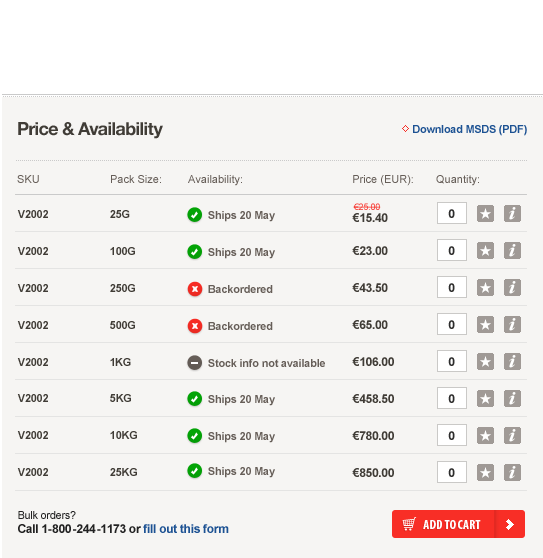
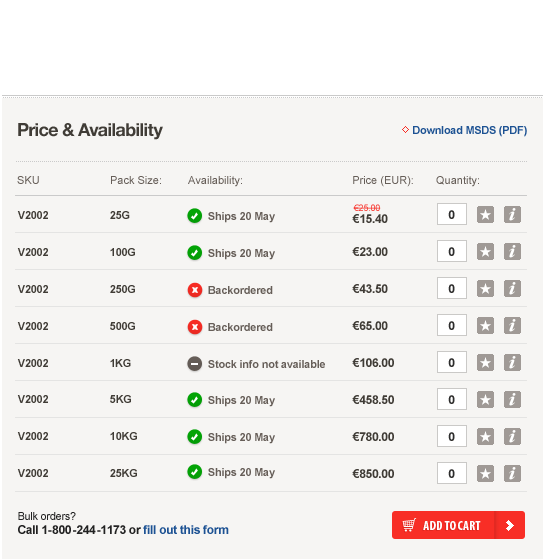
home page

diff --git a/css/global.css b/css/global.css
@@ -50,6 +50,7 @@
 #third-party footer{
 	background: transparent url(../img/footer/bg.png) repeat-x scroll 0 0;
 	height: 591px;
+	margin-top: 80px;
 
 }
 	#third-party footer .top{
@@ -84,7 +85,7 @@
 	}
 	#overlay .inputs{
 		position: absolute;
-		right: 100px;
+		right: 96px;
 		top: 221px;
 		
 	}
@@ -92,14 +93,14 @@
 			border: 1px solid #cac9c7;
 			display: block;
 			font-weight: bold;
-			margin-bottom: 12px;
-			padding: 5px 0;
+			margin-bottom: 14px;
+			padding: 4px 0;
 			text-align: center;
 			width: 30px;
 			
 		}
 	#overlay a{
-		bottom: 90px;
+		bottom: 40px;
 		display: block;
 		height: 30px;
 		position: absolute;
@@ -184,3 +185,73 @@
 		}
 		#third-party .breadcrumbs a.store{left: 0; width: 105px;}
 		#third-party .breadcrumbs a.section{left: 107px; width: 82px;}
+		
+
+/* Product Module
+-----------------------------------------------------*/
+
+#third-party .product{
+	background-color: #eaeae8;
+	display: block;
+	height: 230px;
+	position: absolute;
+	text-align: center;
+	width: 240px;
+	
+}
+#third-party .product:hover{
+	background-color: #d3d3cc;
+}
+	#third-party .product img{
+		padding: 5px 0;
+		
+	}
+	#third-party .product p{
+		color: #333;
+		font: bold 12px Arial, sans-serif;
+		padding: 2px 0;
+		
+	}
+	#third-party .product a{
+		background-image: url('../img/modules/quick-view.png');
+		background-repeat: no-repeat;
+		display: block;
+		height: 28px;
+		margin: 5px auto 0;
+		text-indent: -9999em;
+		width: 123px;
+		
+	}
+	#third-party .product span{
+		background: transparent url(../img/modules/preferred-product.png) no-repeat scroll 0 0;
+		display: block;
+		height: 27px;
+		left: 15px;
+		position: absolute;
+		top: 0;
+		width: 17px;
+		
+	}
+	
+	
+/* Content Wrapper
+-----------------------------------------------------*/	
+
+#third-party #content-wrapper{
+	width: 990px;
+	
+}
+
+/* Two Column Layout
+-----------------------------------------------------*/
+nav.col1{
+	float: left;
+	margin-right: 25px;
+	width: 220px;
+	
+}
+div.col2{
+	float: left;
+	position: relative;
+	width: 740px;
+}

diff --git a/css/index.css b/css/index.css
@@ -13,8 +13,9 @@
 	#third-party .home.search input[type=text]{
 		left: 34px;
 		padding: 5px 10px;
+		height: 41px;
 		top: 64px;
-		width: 654px;
+		width: 653px;
 
 	}
 	#third-party .home.search input[type=submit]{
@@ -22,7 +23,6 @@
 		right: 299px;
 		
 	}
-
 #third-party .home.search p, #third-party .home.search a{
 	font-family: Helvetica;
 	font-size: 12px;
@@ -42,3 +42,31 @@
 		
 	}
 	#third-party .home.search a:hover{text-decoration:none;}
+	
+
+/* NAV
+-----------------------------------------------------*/
+
+nav.col1 .life-science{
+	background: #DDD url(../img/browse-filter/home-life-science.png) no-repeat scroll 0 0;
+	display: block;
+	height: 45px;
+	width: 219px;
+}
+nav.col1 .life-science:hover{
+	background-position: 0px -45px;
+}
+
+
+/* Products
+-----------------------------------------------------*/
+
+#third-party section.products{
+	position: relative;
+	width: 740px;
+}
+
+	#third-party section.products .product {
+		left: 2px;
+		top: 87px;
+	}

diff --git a/overlays/product.html b/overlays/product.html
@@ -1,7 +1,7 @@
 <div class="cf" id="overlay">
 	
 	<img src="img/overlay/properties.png" width="331" height="507" alt="Properties" />
-	<img src="img/overlay/pricing.jpg" width="541" height="507" alt="Pricing" />
+	<img src="img/overlay/pricing.png" width="543" height="559" alt="Pricing" />
 	
 	<div class="inputs">
 		<input type="text" name="quantity" value="0" />
@@ -9,6 +9,9 @@
 		<input type="text" name="quantity" value="0" />
 		<input type="text" name="quantity" value="0" />
 		<input type="text" name="quantity" value="0" />
+		<input type="text" name="quantity" value="0" />
+		<input type="text" name="quantity" value="0" />
+		<input type="text" name="quantity" value="0" />		
 	</div>
 	
 	<a href="cart.php"></a>

diff --git a/index.php b/index.php
@@ -1,3 +1,23 @@
 <?php require_once('includes/header.php'); 		?>
 <?php require_once('includes/search-home.html');?>
+
+<!--Page Container-->
+<div class="middle index cf" id="content-wrapper">
+
+	<nav class="col1">
+		<img src="img/browse-filter/home-top.png" width="219" height="77" alt="Home Top" />
+		<a class="life-science" href="life-science.php"></a>
+		<img src="img/browse-filter/home-bottom.png" width="219" height="433" alt="Home Bottom" />
+	</nav><!--#browse-filter-->
+	
+	<div class="col2">
+		<img src="img/main-content-col2/vancomycin-carousel.jpg" width="738" height="300" alt="Vancomycin Carousel" />
+		
+		<section class="products">
+			<?php require_once('includes/product.html'); 		?>
+			<img src="img/main-content-col2/home-products.jpg" width="738" height="555" alt="Home Products" />
+		</section>
+	</div>
+	
+</div><!--#content-wrapper-->
 <?php require_once('includes/footer.php'); 		?>

diff --git a/includes/header.php b/includes/header.php
@@ -32,6 +32,3 @@
 				<a class="logo" href="index.php"></a>
 			</div>			
 		</header>
-		
-		<!--Page Container-->
-		<div id="main-content">

diff --git a/includes/footer.php b/includes/footer.php
@@ -1,5 +1,3 @@
-		</div><!--#main-content-->
-
 		<!--Footer-->
 		<footer>		
 			<div class="top middle"></div>
